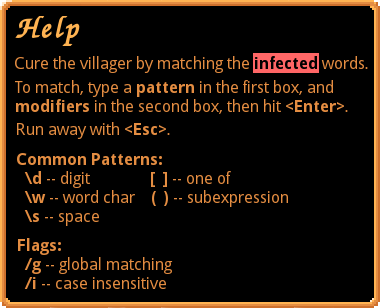
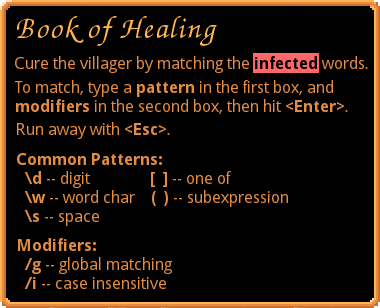
Rename "Help" -> "Book of Healing"

Changed region(s): [[0.0289, 0.0292, 0.5789, 0.1461], [0.0289, 0.7597, 0.2605, 0.8474]]

diff --git a/game/styles/style.css b/game/styles/style.css
@@ -103,7 +103,7 @@ a {
 }
 
 #puzzleBox .resultSection {
-    height: 24px;
+    height: 22px;
 }
 
 #puzzleBox .inputSection {
